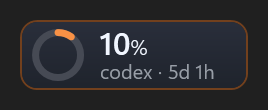
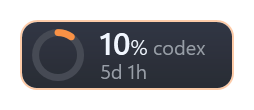
feat: narrower pill, pills that stay visible, tighter limit (v1.3.0) (#27)
* feat: show the tighter of the weekly and 5-hour limits (#22)

* fix: watchdog restarts a stopped or hung widget; pills stay visible over shell overlays

- Scheduled task runs the widget with -Watchdog every 5 min: starts it when it is not
  running, restarts it when its heartbeat is stale for 180 s across a 60 s re-check.
  Never revives a widget the user closed with Exit or when Start with Windows is off.
- Collector timeouts now kill the whole process tree.
- Pills re-assert topmost on every foreground change (WinEvent hook), ignore Start,
  Search, Task View, Alt+Tab and other shell overlays, and hide for full screen only
  after 2 checks in a row.

Refs #23 #24

* feat: narrower pill, product name on the top line beside the percentage

The second line now shows only the status. Claude pill 155 -> 132 DIP, Codex 135 -> 126 DIP
(sample data, 100% scale). README and site screenshots re-rendered from sample data.

Refs #25

* docs: README names the watchdog task the installer adds

Refs #23

---------

diff --git a/site/index.html b/site/index.html
@@ -153,8 +153,8 @@ footer a{color:var(--dim)}
       <img src="images/claude-card.png" width="700" height="814" fetchpriority="high" decoding="async" alt="Claude usage card: 55% left this week for all models, a teal pace box saying On pace with when it would run out, and bars for the weekly and 5-hour session limits">
     </div>
     <div class="taskbar">
-      <img src="images/codex-pill.png" alt="Codex pill: ring at 10% with an orange edge, codex · 5d 1h until the reset" width="270" height="110">
-      <img src="images/claude-pill.png" alt="Claude pill: ring at 55%, claude · 23h 1m until the reset" width="302" height="110">
+      <img src="images/codex-pill.png" alt="Codex pill: ring at 10% with an orange edge, 10% codex, 5d 1h until the reset" width="254" height="110">
+      <img src="images/claude-pill.png" alt="Claude pill: ring at 55%, 55% claude, 23h until the reset" width="264" height="110">
       <span class="clock" aria-hidden="true">19:58<br>13-Nov-26</span>
     </div>
   </div>

diff --git a/CHANGELOG.md b/CHANGELOG.md
@@ -2,6 +2,14 @@
 
 Each release is listed here, newest first. The version is `$script:Version` in `claude-usage-widget\claude-usage-widget.ps1`; tagging `v<version>` publishes it as a GitHub release with downloadable zips.
 
+## 1.3.0 (2026-11-16)
+
+**Tighter limit first:** the pill and the card's headline now show whichever limit runs out first, the weekly one or the 5-hour session ([#22](https://github.com/Solarity-AI/ai-usage-taskbar-widgets/issues/22)).
+
+**Narrower pill:** the product name now sits beside the percentage, and the second line shows only the reset time or status. The Claude pill is 132 instead of 155 pixels wide, the Codex pill 126 instead of 135 ([#25](https://github.com/Solarity-AI/ai-usage-taskbar-widgets/issues/25)).
+
+**Fixed:** both pills sometimes vanished and came back ([#24](https://github.com/Solarity-AI/ai-usage-taskbar-widgets/issues/24)). Start, Search, Task View and Alt+Tab no longer count as a full-screen app; the pills hide only after a full-screen app stays in front for 2 checks in a row, and they come back on top as soon as another window takes focus.
+
 ## 1.2.0 (2026-11-16)
 
 **Fixed:** a widget that Windows closed (for example as "not responding" after the PC woke from sleep) stayed gone until the next sign-in ([#23](https://github.com/Solarity-AI/ai-usage-taskbar-widgets/issues/23)). The installer now adds a per-user watchdog task that, every 5 minutes, starts the widget if it is not running and replaces one whose window stopped updating. It never restarts a widget you closed with *Exit*, with *Start with Windows* off, or after uninstalling. Run the installer again to get it.

diff --git a/README.md b/README.md
@@ -14,8 +14,8 @@ Two small Windows taskbar widgets show how much of your weekly **Claude** and **
   <img src="docs/images/codex-card.png" width="330" alt="Codex usage card: 10% left this week, credits line, red pace box saying Too fast with the run-out time, weekly limit bar">
 </p>
 <p>
-  <img src="docs/images/claude-pill.png" height="44" alt="Claude pill on the taskbar: ring at 55%, 'claude · 23h 1m' until the reset">
-  <img src="docs/images/codex-pill.png" height="44" alt="Codex pill on the taskbar: ring at 10% with an orange border, 'codex · 5d 1h'">
+  <img src="docs/images/claude-pill.png" height="44" alt="Claude pill on the taskbar: ring at 55%, '55% claude' over 23h until the reset">
+  <img src="docs/images/codex-pill.png" height="44" alt="Codex pill on the taskbar: ring at 10% with an orange border, '10% codex' over 5d 1h">
 </p>
 
 ## What you get
